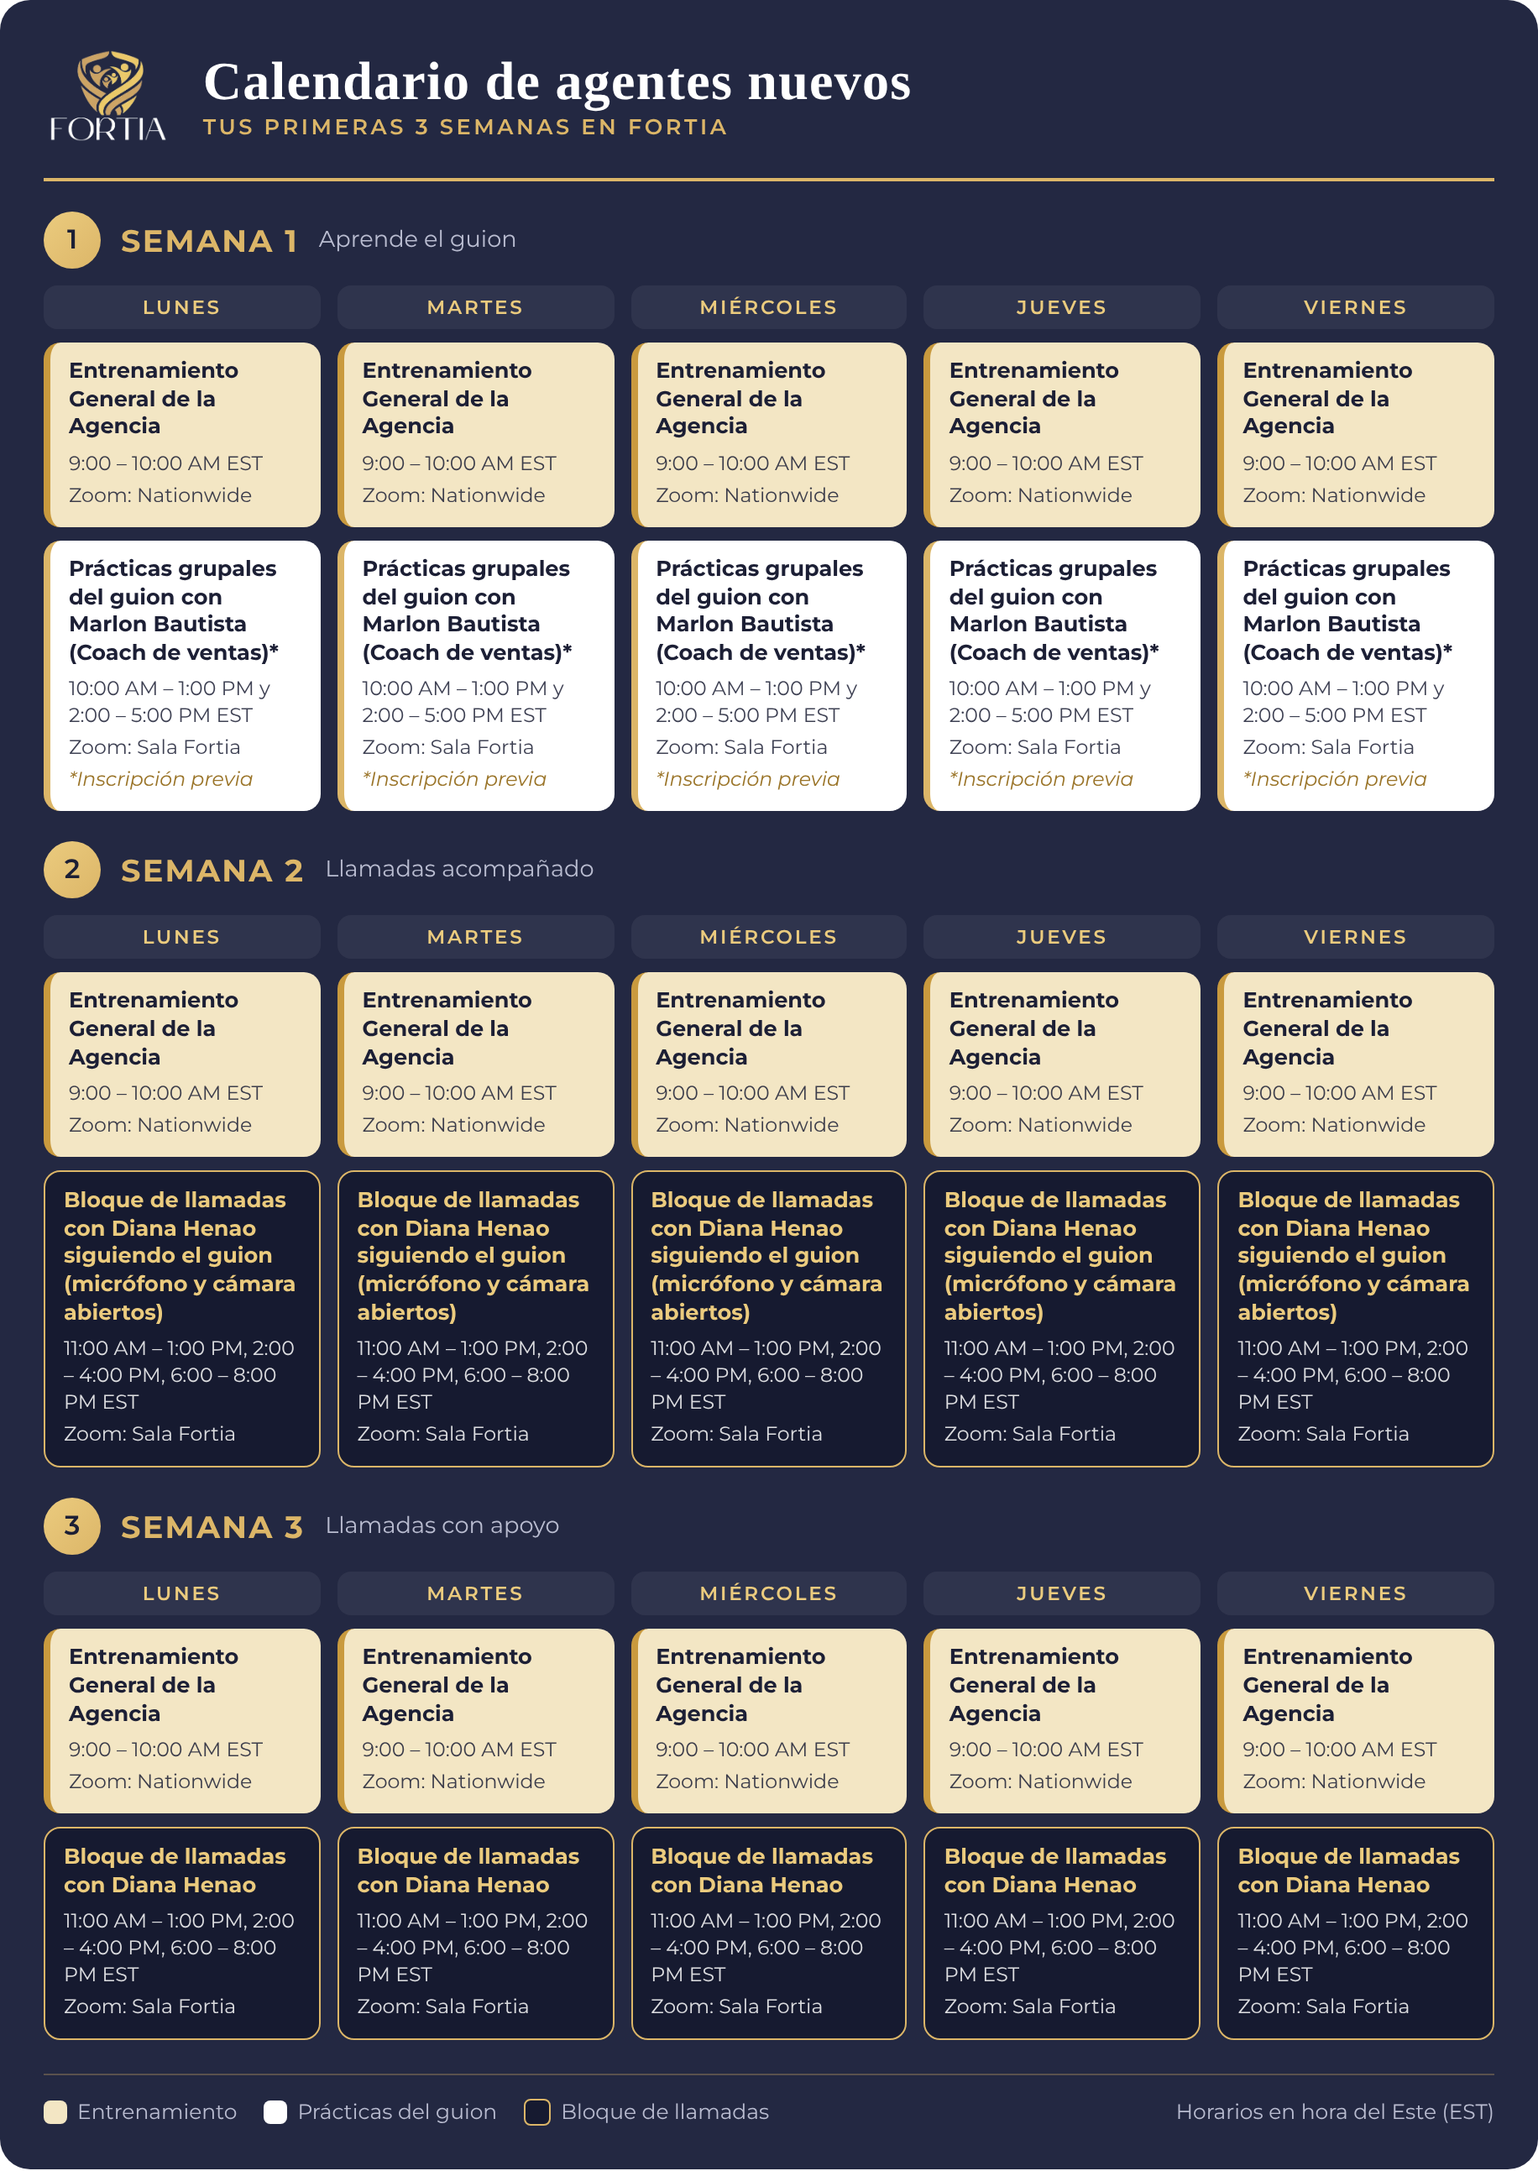
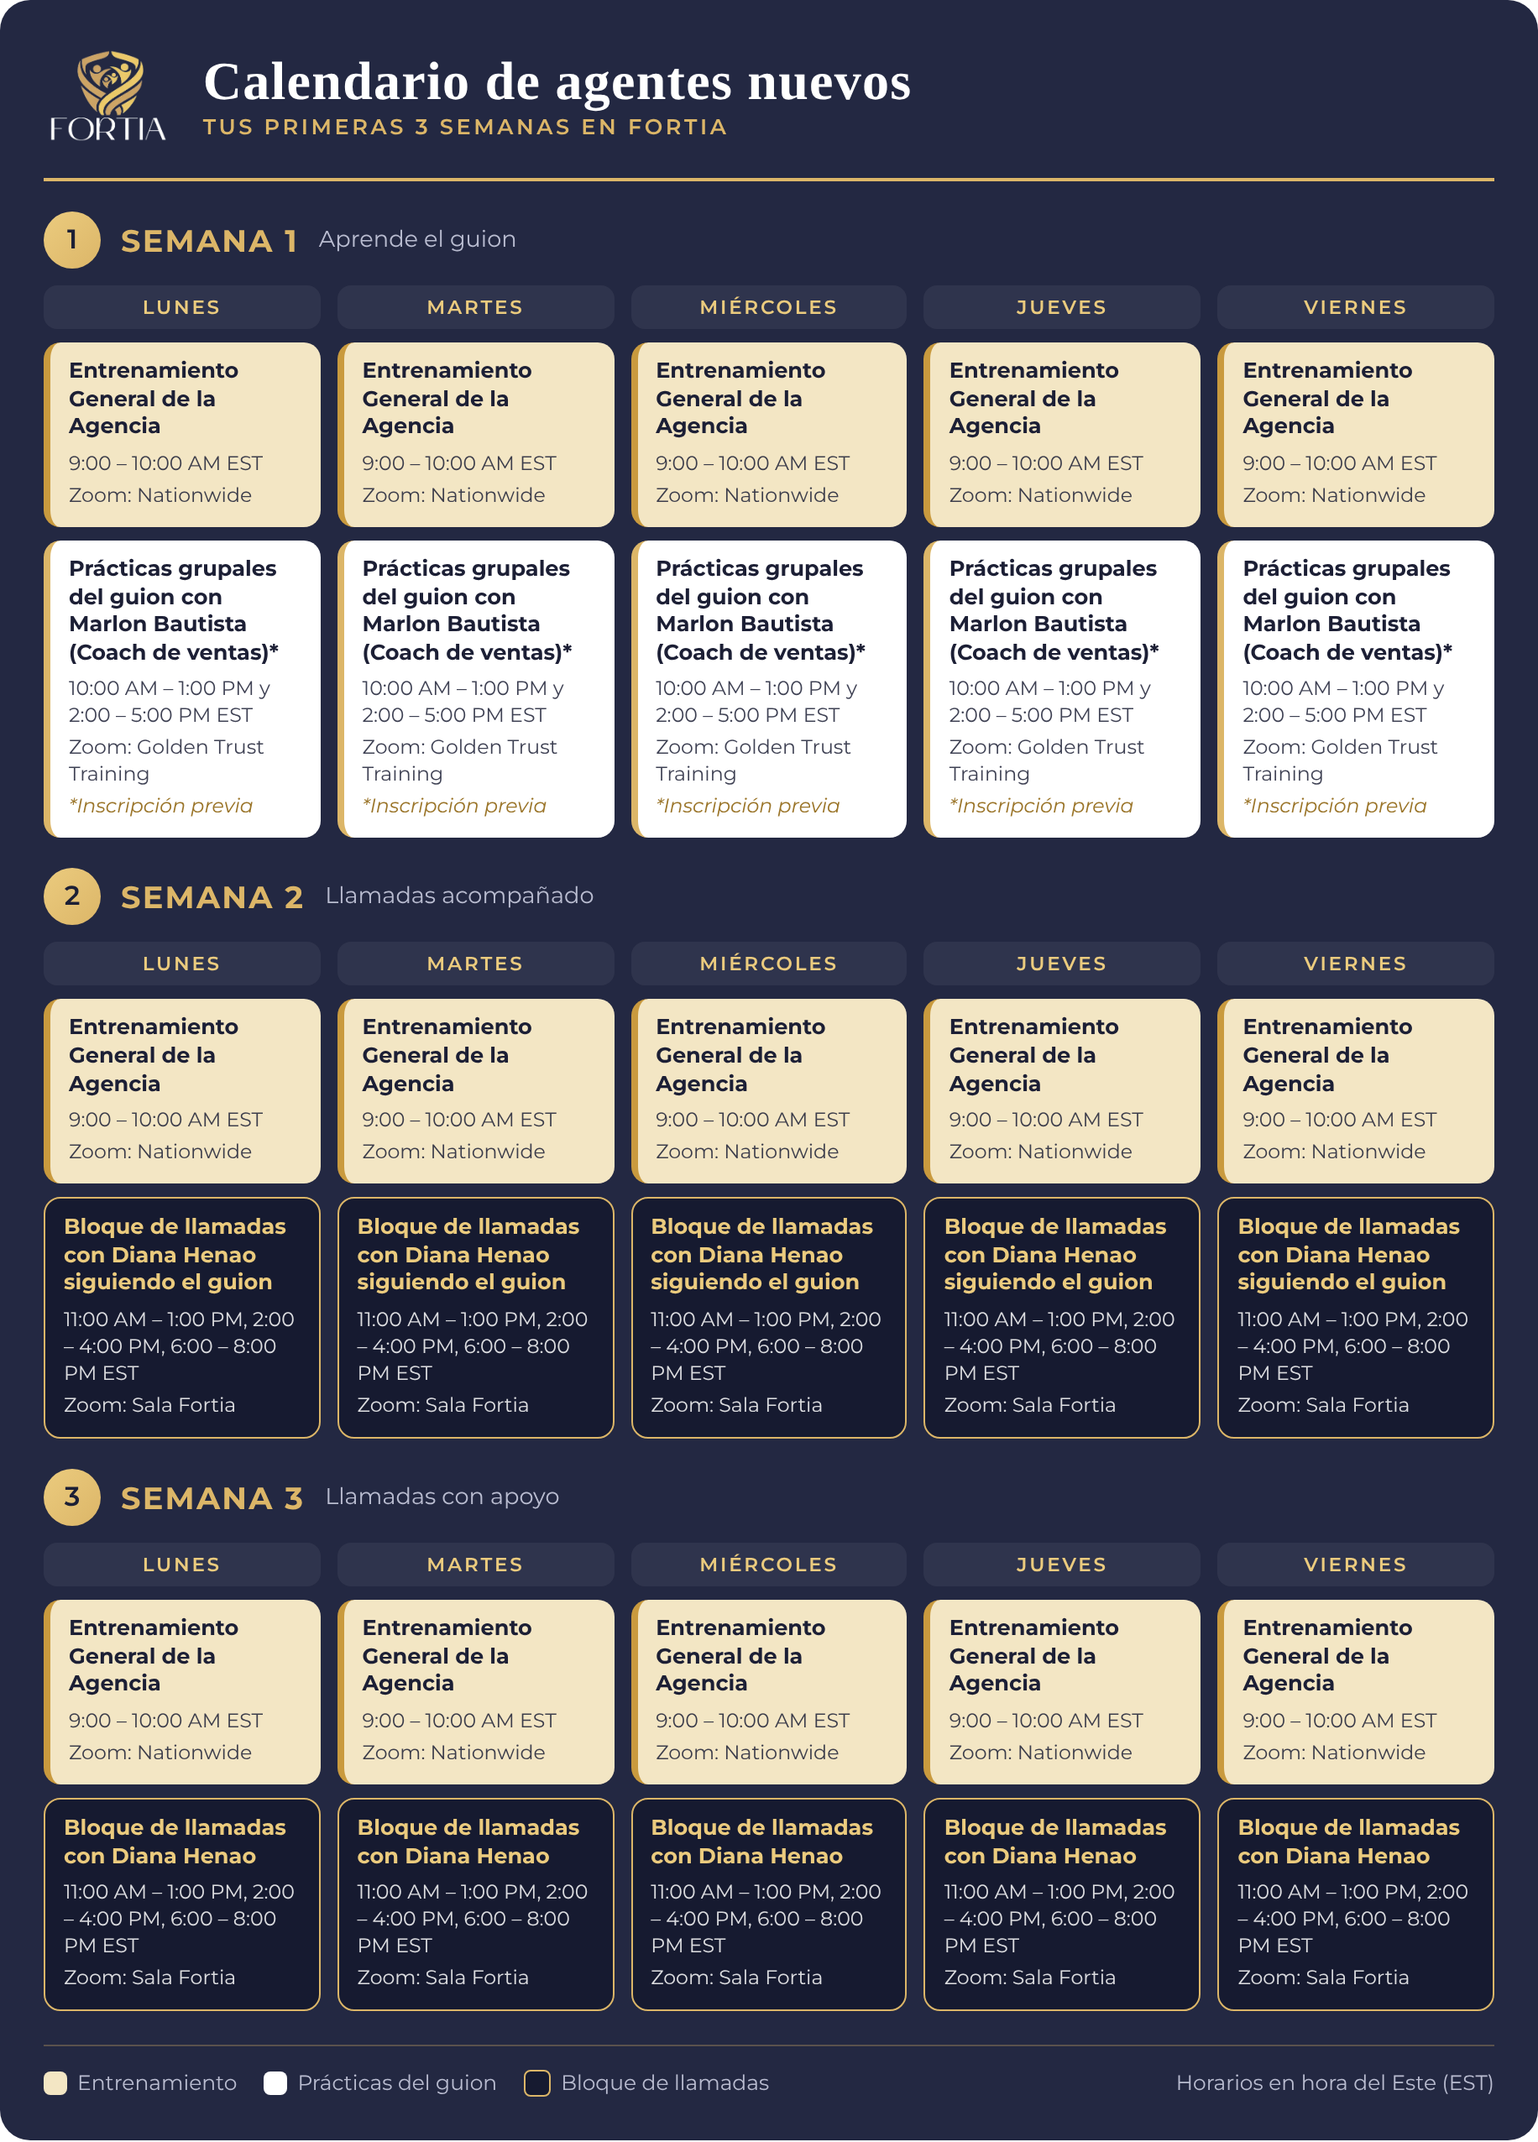
Add files via upload

diff --git a/calendario.html b/calendario.html
@@ -72,8 +72,8 @@
     <div class="g-actions cal-actions">
       <a class="btn-gold" href="calendario-fortia.png" download>Descargar imagen</a>
     </div>
-<div class="cal" id="cal"><div class="cal-top"><img src="logo-fortia.png" alt="Fortia"><div><h2>Calendario de agentes nuevos</h2><p>Tus primeras 3 semanas en Fortia</p></div></div><section class="c-week"><div class="c-wtitle"><span class="c-wnum">1</span><b>Semana 1</b><em>Aprende el guion</em></div><div class="c-grid"><div class="c-day"><div class="c-dname">Lunes</div><div class="c-blk ent"><b>Entrenamiento General de la Agencia</b><span>9:00 – 10:00 AM EST</span><span>Zoom: Nationwide</span></div><div class="c-blk pra"><b>Prácticas grupales del guion con Marlon Bautista (Coach de ventas)*</b><span>10:00 AM – 1:00 PM y 2:00 – 5:00 PM EST</span><span>Zoom: Sala Fortia</span><span class="c-note">*Inscripción previa</span></div></div><div class="c-day"><div class="c-dname">Martes</div><div class="c-blk ent"><b>Entrenamiento General de la Agencia</b><span>9:00 – 10:00 AM EST</span><span>Zoom: Nationwide</span></div><div class="c-blk pra"><b>Prácticas grupales del guion con Marlon Bautista (Coach de ventas)*</b><span>10:00 AM – 1:00 PM y 2:00 – 5:00 PM EST</span><span>Zoom: Sala Fortia</span><span class="c-note">*Inscripción previa</span></div></div><div class="c-day"><div class="c-dname">Miércoles</div><div class="c-blk ent"><b>Entrenamiento General de la Agencia</b><span>9:00 – 10:00 AM EST</span><span>Zoom: Nationwide</span></div><div class="c-blk pra"><b>Prácticas grupales del guion con Marlon Bautista (Coach de ventas)*</b><span>10:00 AM – 1:00 PM y 2:00 – 5:00 PM EST</span><span>Zoom: Sala Fortia</span><span class="c-note">*Inscripción previa</span></div></div><div class="c-day"><div class="c-dname">Jueves</div><div class="c-blk ent"><b>Entrenamiento General de la Agencia</b><span>9:00 – 10:00 AM EST</span><span>Zoom: Nationwide</span></div><div class="c-blk pra"><b>Prácticas grupales del guion con Marlon Bautista (Coach de ventas)*</b><span>10:00 AM – 1:00 PM y 2:00 – 5:00 PM EST</span><span>Zoom: Sala Fortia</span><span class="c-note">*Inscripción previa</span></div></div><div class="c-day"><div class="c-dname">Viernes</div><div class="c-blk ent"><b>Entrenamiento General de la Agencia</b><span>9:00 – 10:00 AM EST</span><span>Zoom: Nationwide</span></div><div class="c-blk pra"><b>Prácticas grupales del guion con Marlon Bautista (Coach de ventas)*</b><span>10:00 AM – 1:00 PM y 2:00 – 5:00 PM EST</span><span>Zoom: Sala Fortia</span><span class="c-note">*Inscripción previa</span></div></div></div></section><section class="c-week"><div class="c-wtitle"><span class="c-wnum">2</span><b>Semana 2</b><em>Llamadas acompañado</em></div><div class="c-grid"><div class="c-day"><div class="c-dname">Lunes</div><div class="c-blk ent"><b>Entrenamiento General de la Agencia</b><span>9:00 – 10:00 AM EST</span><span>Zoom: Nationwide</span></div><div class="c-blk lla"><b>Bloque de llamadas con Diana Henao siguiendo el guion (micrófono y cámara abiertos)</b><span>11:00 AM – 1:00 PM, 2:00 – 4:00 PM, 6:00 – 8:00 PM EST</span><span>Zoom: Sala Fortia</span></div></div><div class="c-day"><div class="c-dname">Martes</div><div class="c-blk ent"><b>Entrenamiento General de la Agencia</b><span>9:00 – 10:00 AM EST</span><span>Zoom: Nationwide</span></div><div class="c-blk lla"><b>Bloque de llamadas con Diana Henao siguiendo el guion (micrófono y cámara abiertos)</b><span>11:00 AM – 1:00 PM, 2:00 – 4:00 PM, 6:00 – 8:00 PM EST</span><span>Zoom: Sala Fortia</span></div></div><div class="c-day"><div class="c-dname">Miércoles</div><div class="c-blk ent"><b>Entrenamiento General de la Agencia</b><span>9:00 – 10:00 AM EST</span><span>Zoom: Nationwide</span></div><div class="c-blk lla"><b>Bloque de llamadas con Diana Henao siguiendo el guion (micrófono y cámara abiertos)</b><span>11:00 AM – 1:00 PM, 2:00 – 4:00 PM, 6:00 – 8:00 PM EST</span><span>Zoom: Sala Fortia</span></div></div><div class="c-day"><div class="c-dname">Jueves</div><div class="c-blk ent"><b>Entrenamiento General de la Agencia</b><span>9:00 – 10:00 AM EST</span><span>Zoom: Nationwide</span></div><div class="c-blk lla"><b>Bloque de llamadas con Diana Henao siguiendo el guion (micrófono y cámara abiertos)</b><span>11:00 AM – 1:00 PM, 2:00 – 4:00 PM, 6:00 – 8:00 PM EST</span><span>Zoom: Sala Fortia</span></div></div><div class="c-day"><div class="c-dname">Viernes</div><div class="c-blk ent"><b>Entrenamiento General de la Agencia</b><span>9:00 – 10:00 AM EST</span><span>Zoom: Nationwide</span></div><div class="c-blk lla"><b>Bloque de llamadas con Diana Henao siguiendo el guion (micrófono y cámara abiertos)</b><span>11:00 AM – 1:00 PM, 2:00 – 4:00 PM, 6:00 – 8:00 PM EST</span><span>Zoom: Sala Fortia</span></div></div></div></section><section class="c-week"><div class="c-wtitle"><span class="c-wnum">3</span><b>Semana 3</b><em>Llamadas con apoyo</em></div><div class="c-grid"><div class="c-day"><div class="c-dname">Lunes</div><div class="c-blk ent"><b>Entrenamiento General de la Agencia</b><span>9:00 – 10:00 AM EST</span><span>Zoom: Nationwide</span></div><div class="c-blk lla"><b>Bloque de llamadas con Diana Henao</b><span>11:00 AM – 1:00 PM, 2:00 – 4:00 PM, 6:00 – 8:00 PM EST</span><span>Zoom: Sala Fortia</span></div></div><div class="c-day"><div class="c-dname">Martes</div><div class="c-blk ent"><b>Entrenamiento General de la Agencia</b><span>9:00 – 10:00 AM EST</span><span>Zoom: Nationwide</span></div><div class="c-blk lla"><b>Bloque de llamadas con Diana Henao</b><span>11:00 AM – 1:00 PM, 2:00 – 4:00 PM, 6:00 – 8:00 PM EST</span><span>Zoom: Sala Fortia</span></div></div><div class="c-day"><div class="c-dname">Miércoles</div><div class="c-blk ent"><b>Entrenamiento General de la Agencia</b><span>9:00 – 10:00 AM EST</span><span>Zoom: Nationwide</span></div><div class="c-blk lla"><b>Bloque de llamadas con Diana Henao</b><span>11:00 AM – 1:00 PM, 2:00 – 4:00 PM, 6:00 – 8:00 PM EST</span><span>Zoom: Sala Fortia</span></div></div><div class="c-day"><div class="c-dname">Jueves</div><div class="c-blk ent"><b>Entrenamiento General de la Agencia</b><span>9:00 – 10:00 AM EST</span><span>Zoom: Nationwide</span></div><div class="c-blk lla"><b>Bloque de llamadas con Diana Henao</b><span>11:00 AM – 1:00 PM, 2:00 – 4:00 PM, 6:00 – 8:00 PM EST</span><span>Zoom: Sala Fortia</span></div></div><div class="c-day"><div class="c-dname">Viernes</div><div class="c-blk ent"><b>Entrenamiento General de la Agencia</b><span>9:00 – 10:00 AM EST</span><span>Zoom: Nationwide</span></div><div class="c-blk lla"><b>Bloque de llamadas con Diana Henao</b><span>11:00 AM – 1:00 PM, 2:00 – 4:00 PM, 6:00 – 8:00 PM EST</span><span>Zoom: Sala Fortia</span></div></div></div></section><div class="cal-legend"><span class="lg ent">Entrenamiento</span><span class="lg pra">Prácticas del guion</span><span class="lg lla">Bloque de llamadas</span><span class="cal-foot">Horarios en hora del Este (EST)</span></div></div>
-    <div class="g-tip" style="margin-top:22px"><b>Cómo leerlo:</b> la semana 1 aprendes el guion con prácticas en grupo; la semana 2 haces llamadas con Diana Henao en la sala Fortia, con micrófono y cámara abiertos; la semana 3 sigues llamando con su apoyo. Todos los días empiezas con el Entrenamiento General de la Agencia.</div>
+<div class="cal" id="cal"><div class="cal-top"><img src="logo-fortia.png" alt="Fortia"><div><h2>Calendario de agentes nuevos</h2><p>Tus primeras 3 semanas en Fortia</p></div></div><section class="c-week"><div class="c-wtitle"><span class="c-wnum">1</span><b>Semana 1</b><em>Aprende el guion</em></div><div class="c-grid"><div class="c-day"><div class="c-dname">Lunes</div><div class="c-blk ent"><b>Entrenamiento General de la Agencia</b><span>9:00 – 10:00 AM EST</span><span>Zoom: Nationwide</span></div><div class="c-blk pra"><b>Prácticas grupales del guion con Marlon Bautista (Coach de ventas)*</b><span>10:00 AM – 1:00 PM y 2:00 – 5:00 PM EST</span><span>Zoom: Golden Trust Training</span><span class="c-note">*Inscripción previa</span></div></div><div class="c-day"><div class="c-dname">Martes</div><div class="c-blk ent"><b>Entrenamiento General de la Agencia</b><span>9:00 – 10:00 AM EST</span><span>Zoom: Nationwide</span></div><div class="c-blk pra"><b>Prácticas grupales del guion con Marlon Bautista (Coach de ventas)*</b><span>10:00 AM – 1:00 PM y 2:00 – 5:00 PM EST</span><span>Zoom: Golden Trust Training</span><span class="c-note">*Inscripción previa</span></div></div><div class="c-day"><div class="c-dname">Miércoles</div><div class="c-blk ent"><b>Entrenamiento General de la Agencia</b><span>9:00 – 10:00 AM EST</span><span>Zoom: Nationwide</span></div><div class="c-blk pra"><b>Prácticas grupales del guion con Marlon Bautista (Coach de ventas)*</b><span>10:00 AM – 1:00 PM y 2:00 – 5:00 PM EST</span><span>Zoom: Golden Trust Training</span><span class="c-note">*Inscripción previa</span></div></div><div class="c-day"><div class="c-dname">Jueves</div><div class="c-blk ent"><b>Entrenamiento General de la Agencia</b><span>9:00 – 10:00 AM EST</span><span>Zoom: Nationwide</span></div><div class="c-blk pra"><b>Prácticas grupales del guion con Marlon Bautista (Coach de ventas)*</b><span>10:00 AM – 1:00 PM y 2:00 – 5:00 PM EST</span><span>Zoom: Golden Trust Training</span><span class="c-note">*Inscripción previa</span></div></div><div class="c-day"><div class="c-dname">Viernes</div><div class="c-blk ent"><b>Entrenamiento General de la Agencia</b><span>9:00 – 10:00 AM EST</span><span>Zoom: Nationwide</span></div><div class="c-blk pra"><b>Prácticas grupales del guion con Marlon Bautista (Coach de ventas)*</b><span>10:00 AM – 1:00 PM y 2:00 – 5:00 PM EST</span><span>Zoom: Golden Trust Training</span><span class="c-note">*Inscripción previa</span></div></div></div></section><section class="c-week"><div class="c-wtitle"><span class="c-wnum">2</span><b>Semana 2</b><em>Llamadas acompañado</em></div><div class="c-grid"><div class="c-day"><div class="c-dname">Lunes</div><div class="c-blk ent"><b>Entrenamiento General de la Agencia</b><span>9:00 – 10:00 AM EST</span><span>Zoom: Nationwide</span></div><div class="c-blk lla"><b>Bloque de llamadas con Diana Henao siguiendo el guion</b><span>11:00 AM – 1:00 PM, 2:00 – 4:00 PM, 6:00 – 8:00 PM EST</span><span>Zoom: Sala Fortia</span></div></div><div class="c-day"><div class="c-dname">Martes</div><div class="c-blk ent"><b>Entrenamiento General de la Agencia</b><span>9:00 – 10:00 AM EST</span><span>Zoom: Nationwide</span></div><div class="c-blk lla"><b>Bloque de llamadas con Diana Henao siguiendo el guion</b><span>11:00 AM – 1:00 PM, 2:00 – 4:00 PM, 6:00 – 8:00 PM EST</span><span>Zoom: Sala Fortia</span></div></div><div class="c-day"><div class="c-dname">Miércoles</div><div class="c-blk ent"><b>Entrenamiento General de la Agencia</b><span>9:00 – 10:00 AM EST</span><span>Zoom: Nationwide</span></div><div class="c-blk lla"><b>Bloque de llamadas con Diana Henao siguiendo el guion</b><span>11:00 AM – 1:00 PM, 2:00 – 4:00 PM, 6:00 – 8:00 PM EST</span><span>Zoom: Sala Fortia</span></div></div><div class="c-day"><div class="c-dname">Jueves</div><div class="c-blk ent"><b>Entrenamiento General de la Agencia</b><span>9:00 – 10:00 AM EST</span><span>Zoom: Nationwide</span></div><div class="c-blk lla"><b>Bloque de llamadas con Diana Henao siguiendo el guion</b><span>11:00 AM – 1:00 PM, 2:00 – 4:00 PM, 6:00 – 8:00 PM EST</span><span>Zoom: Sala Fortia</span></div></div><div class="c-day"><div class="c-dname">Viernes</div><div class="c-blk ent"><b>Entrenamiento General de la Agencia</b><span>9:00 – 10:00 AM EST</span><span>Zoom: Nationwide</span></div><div class="c-blk lla"><b>Bloque de llamadas con Diana Henao siguiendo el guion</b><span>11:00 AM – 1:00 PM, 2:00 – 4:00 PM, 6:00 – 8:00 PM EST</span><span>Zoom: Sala Fortia</span></div></div></div></section><section class="c-week"><div class="c-wtitle"><span class="c-wnum">3</span><b>Semana 3</b><em>Llamadas con apoyo</em></div><div class="c-grid"><div class="c-day"><div class="c-dname">Lunes</div><div class="c-blk ent"><b>Entrenamiento General de la Agencia</b><span>9:00 – 10:00 AM EST</span><span>Zoom: Nationwide</span></div><div class="c-blk lla"><b>Bloque de llamadas con Diana Henao</b><span>11:00 AM – 1:00 PM, 2:00 – 4:00 PM, 6:00 – 8:00 PM EST</span><span>Zoom: Sala Fortia</span></div></div><div class="c-day"><div class="c-dname">Martes</div><div class="c-blk ent"><b>Entrenamiento General de la Agencia</b><span>9:00 – 10:00 AM EST</span><span>Zoom: Nationwide</span></div><div class="c-blk lla"><b>Bloque de llamadas con Diana Henao</b><span>11:00 AM – 1:00 PM, 2:00 – 4:00 PM, 6:00 – 8:00 PM EST</span><span>Zoom: Sala Fortia</span></div></div><div class="c-day"><div class="c-dname">Miércoles</div><div class="c-blk ent"><b>Entrenamiento General de la Agencia</b><span>9:00 – 10:00 AM EST</span><span>Zoom: Nationwide</span></div><div class="c-blk lla"><b>Bloque de llamadas con Diana Henao</b><span>11:00 AM – 1:00 PM, 2:00 – 4:00 PM, 6:00 – 8:00 PM EST</span><span>Zoom: Sala Fortia</span></div></div><div class="c-day"><div class="c-dname">Jueves</div><div class="c-blk ent"><b>Entrenamiento General de la Agencia</b><span>9:00 – 10:00 AM EST</span><span>Zoom: Nationwide</span></div><div class="c-blk lla"><b>Bloque de llamadas con Diana Henao</b><span>11:00 AM – 1:00 PM, 2:00 – 4:00 PM, 6:00 – 8:00 PM EST</span><span>Zoom: Sala Fortia</span></div></div><div class="c-day"><div class="c-dname">Viernes</div><div class="c-blk ent"><b>Entrenamiento General de la Agencia</b><span>9:00 – 10:00 AM EST</span><span>Zoom: Nationwide</span></div><div class="c-blk lla"><b>Bloque de llamadas con Diana Henao</b><span>11:00 AM – 1:00 PM, 2:00 – 4:00 PM, 6:00 – 8:00 PM EST</span><span>Zoom: Sala Fortia</span></div></div></div></section><div class="cal-legend"><span class="lg ent">Entrenamiento</span><span class="lg pra">Prácticas del guion</span><span class="lg lla">Bloque de llamadas</span><span class="cal-foot">Horarios en hora del Este (EST)</span></div></div>
+    <div class="g-tip" style="margin-top:22px"><b>Cómo leerlo:</b> la semana 1 aprendes el guion con prácticas en grupo; la semana 2 haces llamadas con Diana Henao en la sala Fortia, siguiendo el guion; la semana 3 sigues llamando con su apoyo. Todos los días empiezas con el Entrenamiento General de la Agencia.</div>
   </main>
 
   <footer>© Fortia · Material exclusivo para agentes</footer>
